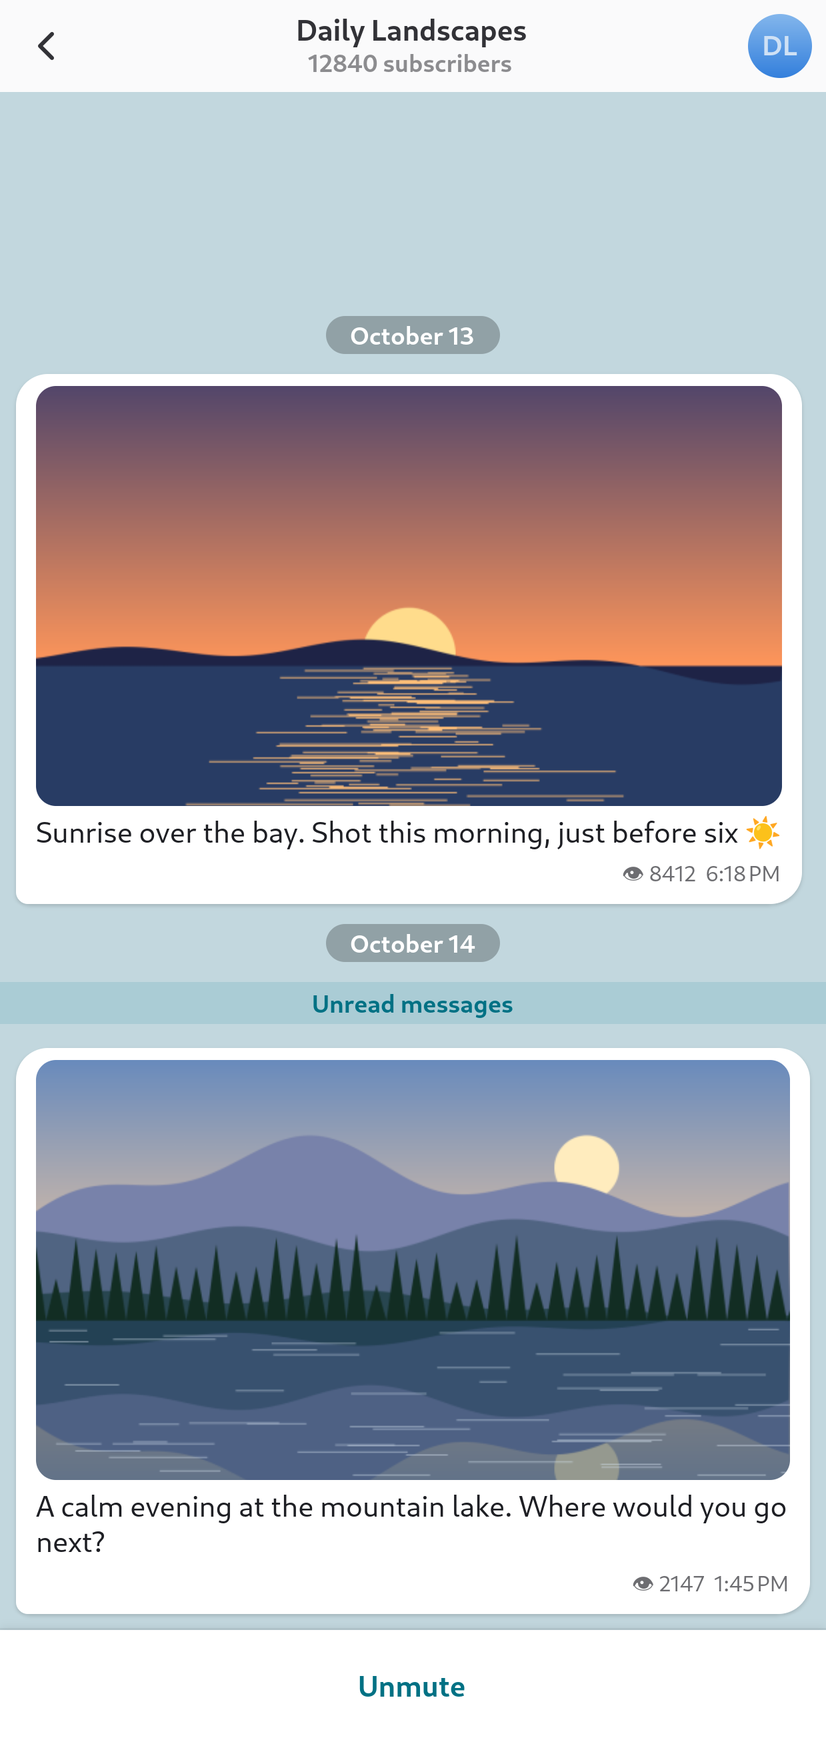
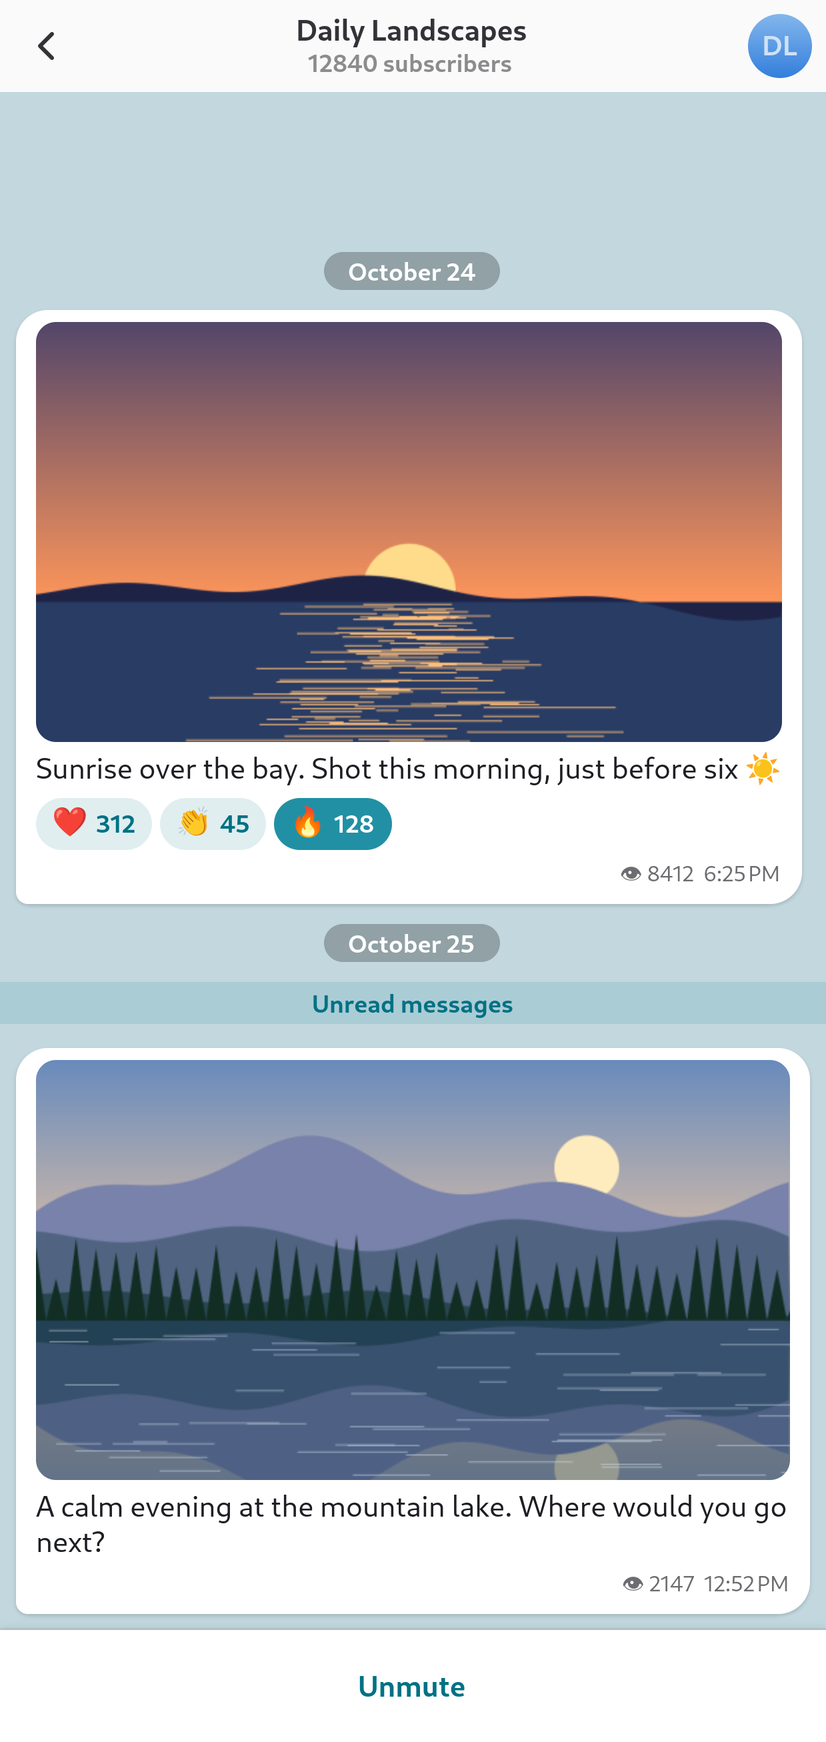
Screenshots and README: reactions, locations, pinned messages, forwarding
Eight screenshots as before, now with a pinned message and reactions,
a group with a place and live locations, the live location map, a
message's menu with reactions in the dark style and forwarding. The
README describes forwarding, pinned messages, the live location map and
the memory guard, and points to the Flatpak repository near the top.

diff --git a/README.md b/README.md
@@ -13,15 +13,15 @@ developed on the FuriLabs FLX1s with FuriOS
 
 <p align="center">
   <img src="screenshots/chats.png" width="200" alt="Chat list">
-  <img src="screenshots/chat.png" width="200" alt="A conversation with a photo, a reply and a voice message">
-  <img src="screenshots/group.png" width="200" alt="A group chat">
-  <img src="screenshots/call.png" width="200" alt="An incoming call">
+  <img src="screenshots/chat.png" width="200" alt="A conversation with reactions, a reply, a voice message and a pinned message">
+  <img src="screenshots/group.png" width="200" alt="A group with a place, live locations and reactions">
+  <img src="screenshots/live-map.png" width="200" alt="A group's live locations on one map">
 </p>
 <p align="center">
-  <img src="screenshots/chats-dark.png" width="200" alt="Chat list, dark style">
-  <img src="screenshots/chat-dark.png" width="200" alt="A conversation, dark style">
-  <img src="screenshots/channel.png" width="200" alt="A channel">
-  <img src="screenshots/profile.png" width="200" alt="A profile">
+  <img src="screenshots/chat-dark.png" width="200" alt="A message's menu with reactions, dark style">
+  <img src="screenshots/forward.png" width="200" alt="Choosing the chat to forward a message to">
+  <img src="screenshots/call.png" width="200" alt="An incoming call">
+  <img src="screenshots/channel.png" width="200" alt="A channel with reactions">
 </p>
 
 > [!NOTE]
@@ -33,6 +33,9 @@ keeps everything below the interface — MTProto, the message database, local st
 notifications — and replaces the interface itself with an adaptive GTK4/libadwaita one: a single column
 on a phone, the chat list and the chat side by side on a wider screen, touch gestures, the system's light
 or dark style and accent color.
+
+Contrail now has its own [Flatpak repository](#from-the-flatpak-repository) for x86_64 and ARM64: add it once, and
+new versions come through your app store or `flatpak update`.
 
 ## Features
 
@@ -51,6 +54,10 @@ or dark style and accent color.
   double tap to zoom in around the tap and back; Ctrl+wheel with a mouse.
 - **Writing**: text, replies (long press or swipe left), editing (also Up in an empty field), deleting
   (for everyone too), drafts kept per chat.
+- **Forwarding**: choose the chat (and the topic in a group with topics), and the messages wait above its message
+  field, to go with a comment or alone, with or without the senders' names.
+- **Pinned messages**: a bar with the pinned message above the chat; a tap shows it and goes on to the one pinned
+  before, a list shows all of them; pinning and unpinning from a message's menu.
 - **Sending files and pictures**: from the file chooser or pasted (Ctrl+V, Shift+Insert, Paste in the field's
   menu: a screenshot, an image copied in a browser, files copied in a file manager, also through Flatpak's
   portal), shown first with previews, a caption and "Send as documents" / "Group items"; pictures go as photos
@@ -62,8 +69,9 @@ or dark style and accent color.
 - **Locations** as in the phone apps: a map of the place in the chat, a tap opens it on an interactive map
   (OpenStreetMap) with "Open in Maps" for the system's map application. Sending: your current location, any place
   on the map, places nearby or found by name (Foursquare, as in the phone apps), or a **live location** for
-  15 minutes, an hour, 8 hours or until you stop it; it goes on in the background and after a restart, with a bar
-  in the chat to stop it. Live locations of others move on the map as they are updated. The GPS is used only while
+  15 minutes, an hour, 8 hours or until you stop it; it goes on in the background and after a restart. A bar under
+  the chat's header says who shares a live location there and opens one map with everyone: their pins move as they
+  are updated, with how far each one is from you, and sharing or stopping yours. The GPS is used only while
   the location screen is open, and for a live location only to take a fix now and then (more often while you
   move, every two minutes while you stay): nothing keeps it on.
 - **Voice messages** as in the phone apps: hold the microphone to record and release to send, slide
@@ -84,11 +92,13 @@ or dark style and accent color.
   launcher does. The interface is released meanwhile (its memory, textures and timers): opening the window
   again comes back to the same chat, draft and place in it, or to the chat a notification or a link points to.
   A voice message being recorded goes on.
+- **Memory kept in check**: a chat keeps only the messages near the screen, and when the system runs short of
+  memory Contrail lets go of what isn't on the screen.
 - `tg://` and `t.me` links, chat info, contacts, Saved Messages, settings.
 - **Every language Telegram is translated into**: the strings are Telegram Desktop's own; on the first
   start the language follows the system.
 
-Not there yet: group calls, screen sharing, stories, forwarding and selecting messages,
+Not there yet: group calls, screen sharing, stories, selecting several messages,
 sticker and emoji panels, recording video messages, folders, multiple accounts. Secret chats aren't
 planned: Telegram Desktop doesn't have them either.
 
@@ -206,7 +216,7 @@ uses, so nothing has to be installed on the build machine.
 
 | Path | Contents |
 | --- | --- |
-| `gtk-ui/` | The interface, C++ on the plain GTK4/libadwaita C API, compiled into Telegram Desktop's executable: `main_window` (adaptive layout, releasing and rebuilding the interface), `login`, `chat_list`, `chat_view` (history, scrolling, message field), `message` (one message or an album; `album_layout.hpp`), `attach` and `paste.hpp` (files and pasted pictures before sending), `send_queue` (albums in order), `reactions`, `location` (the device's position from GeoClue or the portal), `live_location` (live locations being shared; `geo.hpp`), `location_ui` (sending a location, a location on the map), `map_view` (libshumate maps), `voice_recorder`, `zoom_view` (the photo viewer; `zoom_geometry.hpp`), `text` (Telegram entities → Pango markup, links), `calls`, `call_notification`, `call_lockscreen`, `call_shell` (lock state, ringtone), `dialogs`, `settings`, `userpics`, `style.css`, `icons/` |
+| `gtk-ui/` | The interface, C++ on the plain GTK4/libadwaita C API, compiled into Telegram Desktop's executable: `main_window` (adaptive layout, releasing and rebuilding the interface), `login`, `chat_list`, `chat_view` (history, scrolling, message field), `message` (one message or an album; `album_layout.hpp`), `attach` and `paste.hpp` (files and pasted pictures before sending), `send_queue` (albums in order), `reactions`, `forward` (choosing where to forward), `location` (the device's position from GeoClue or the portal), `live_location` (live locations being shared; `geo.hpp`), `chat_live_locations` and `live_map` (a chat's live locations, on one map), `location_ui` (sending a location, a location on the map), `map_view` (libshumate maps), `memory_guard` (giving memory back when the system is short of it; `memory_pressure.hpp`), `voice_recorder`, `zoom_view` (the photo viewer; `zoom_geometry.hpp`), `text` (Telegram entities → Pango markup, links), `calls`, `call_notification`, `call_lockscreen`, `call_shell` (lock state, ringtone), `dialogs`, `settings`, `userpics`, `style.css`, `icons/` |
 | `patches/` | The patches for Telegram Desktop; `patches/tg_owt/` for WebRTC (built by `build-deps.sh`) |
 | `build-env/` | The build containers (release builds for ARM64 and x86_64 on Debian 13, the phone's FuriOS build for the SSH install), the RPM and Flatpak packaging containers, CMake toolchains, the build of the extra libraries |
 | `packaging/` | Launcher, desktop entry, metainfo, icon, install rules, AppImage entry point, the libraries left to the system, release documents |
@@ -236,8 +246,8 @@ its own log to `~/.local/share/contrail-data/log.txt`.
 
 Regressions for the parts that don't need a Telegram account — GTK handler lifetimes, layout on a phone
 width, media sizing, telling taps from scrolling, Qt window closing, video frame rotation, audio
-routing, the photo viewer's zoom geometry, album cells on narrow screens, what a paste brings and when a live
-location is updated — run on
+routing, the photo viewer's zoom geometry, album cells on narrow screens, what a paste brings, when a live
+location is updated and when memory is short — run on
 any Linux desktop with GTK4, libadwaita, Qt 6, libswscale and a C++ compiler, under AddressSanitizer and
 UBSan:
 
@@ -264,17 +274,21 @@ network after starting, after loading a chat's media and 1, 5 and 15 minutes aft
 The screenshots show the real interface with a made-up account. `tools/demo.sh` starts a second Contrail
 on the phone with its own empty data directory and application ID, in English, inside a network namespace
 without network; the `demo` command (`gtk-ui/demo.cpp`) signs a fictional account in locally and fills it
-with chats, a group and a channel with generated pictures. Nothing reaches Telegram's servers and the
-installed Contrail is not touched. The app draws its own window into a PNG, so the phone's screen can be
-locked meanwhile:
+with chats, a group and a channel with generated pictures, reactions, a pinned message and locations. Nothing
+reaches Telegram's servers and the installed Contrail is not touched. The maps come from a few OpenStreetMap tiles
+that `tools/demo.sh tiles` downloads once and copies into the demo's own cache. The app draws its own window into
+a PNG, so the phone's screen can be locked meanwhile:
 
 ```bash
+tools/demo.sh tiles             # once: the maps around the made-up places
 tools/demo.sh run               # or: tools/demo.sh run dark
 tools/demo.sh cmd demo
 tools/demo.sh cmd 'chat 0'
 tools/demo.sh shot chat.png
 tools/demo.sh stop
 ```
+
+`PROGRAM=.local/share/contrail-test tools/demo.sh run` runs the demo from another SSH install on the phone.
 
 ## License
 
